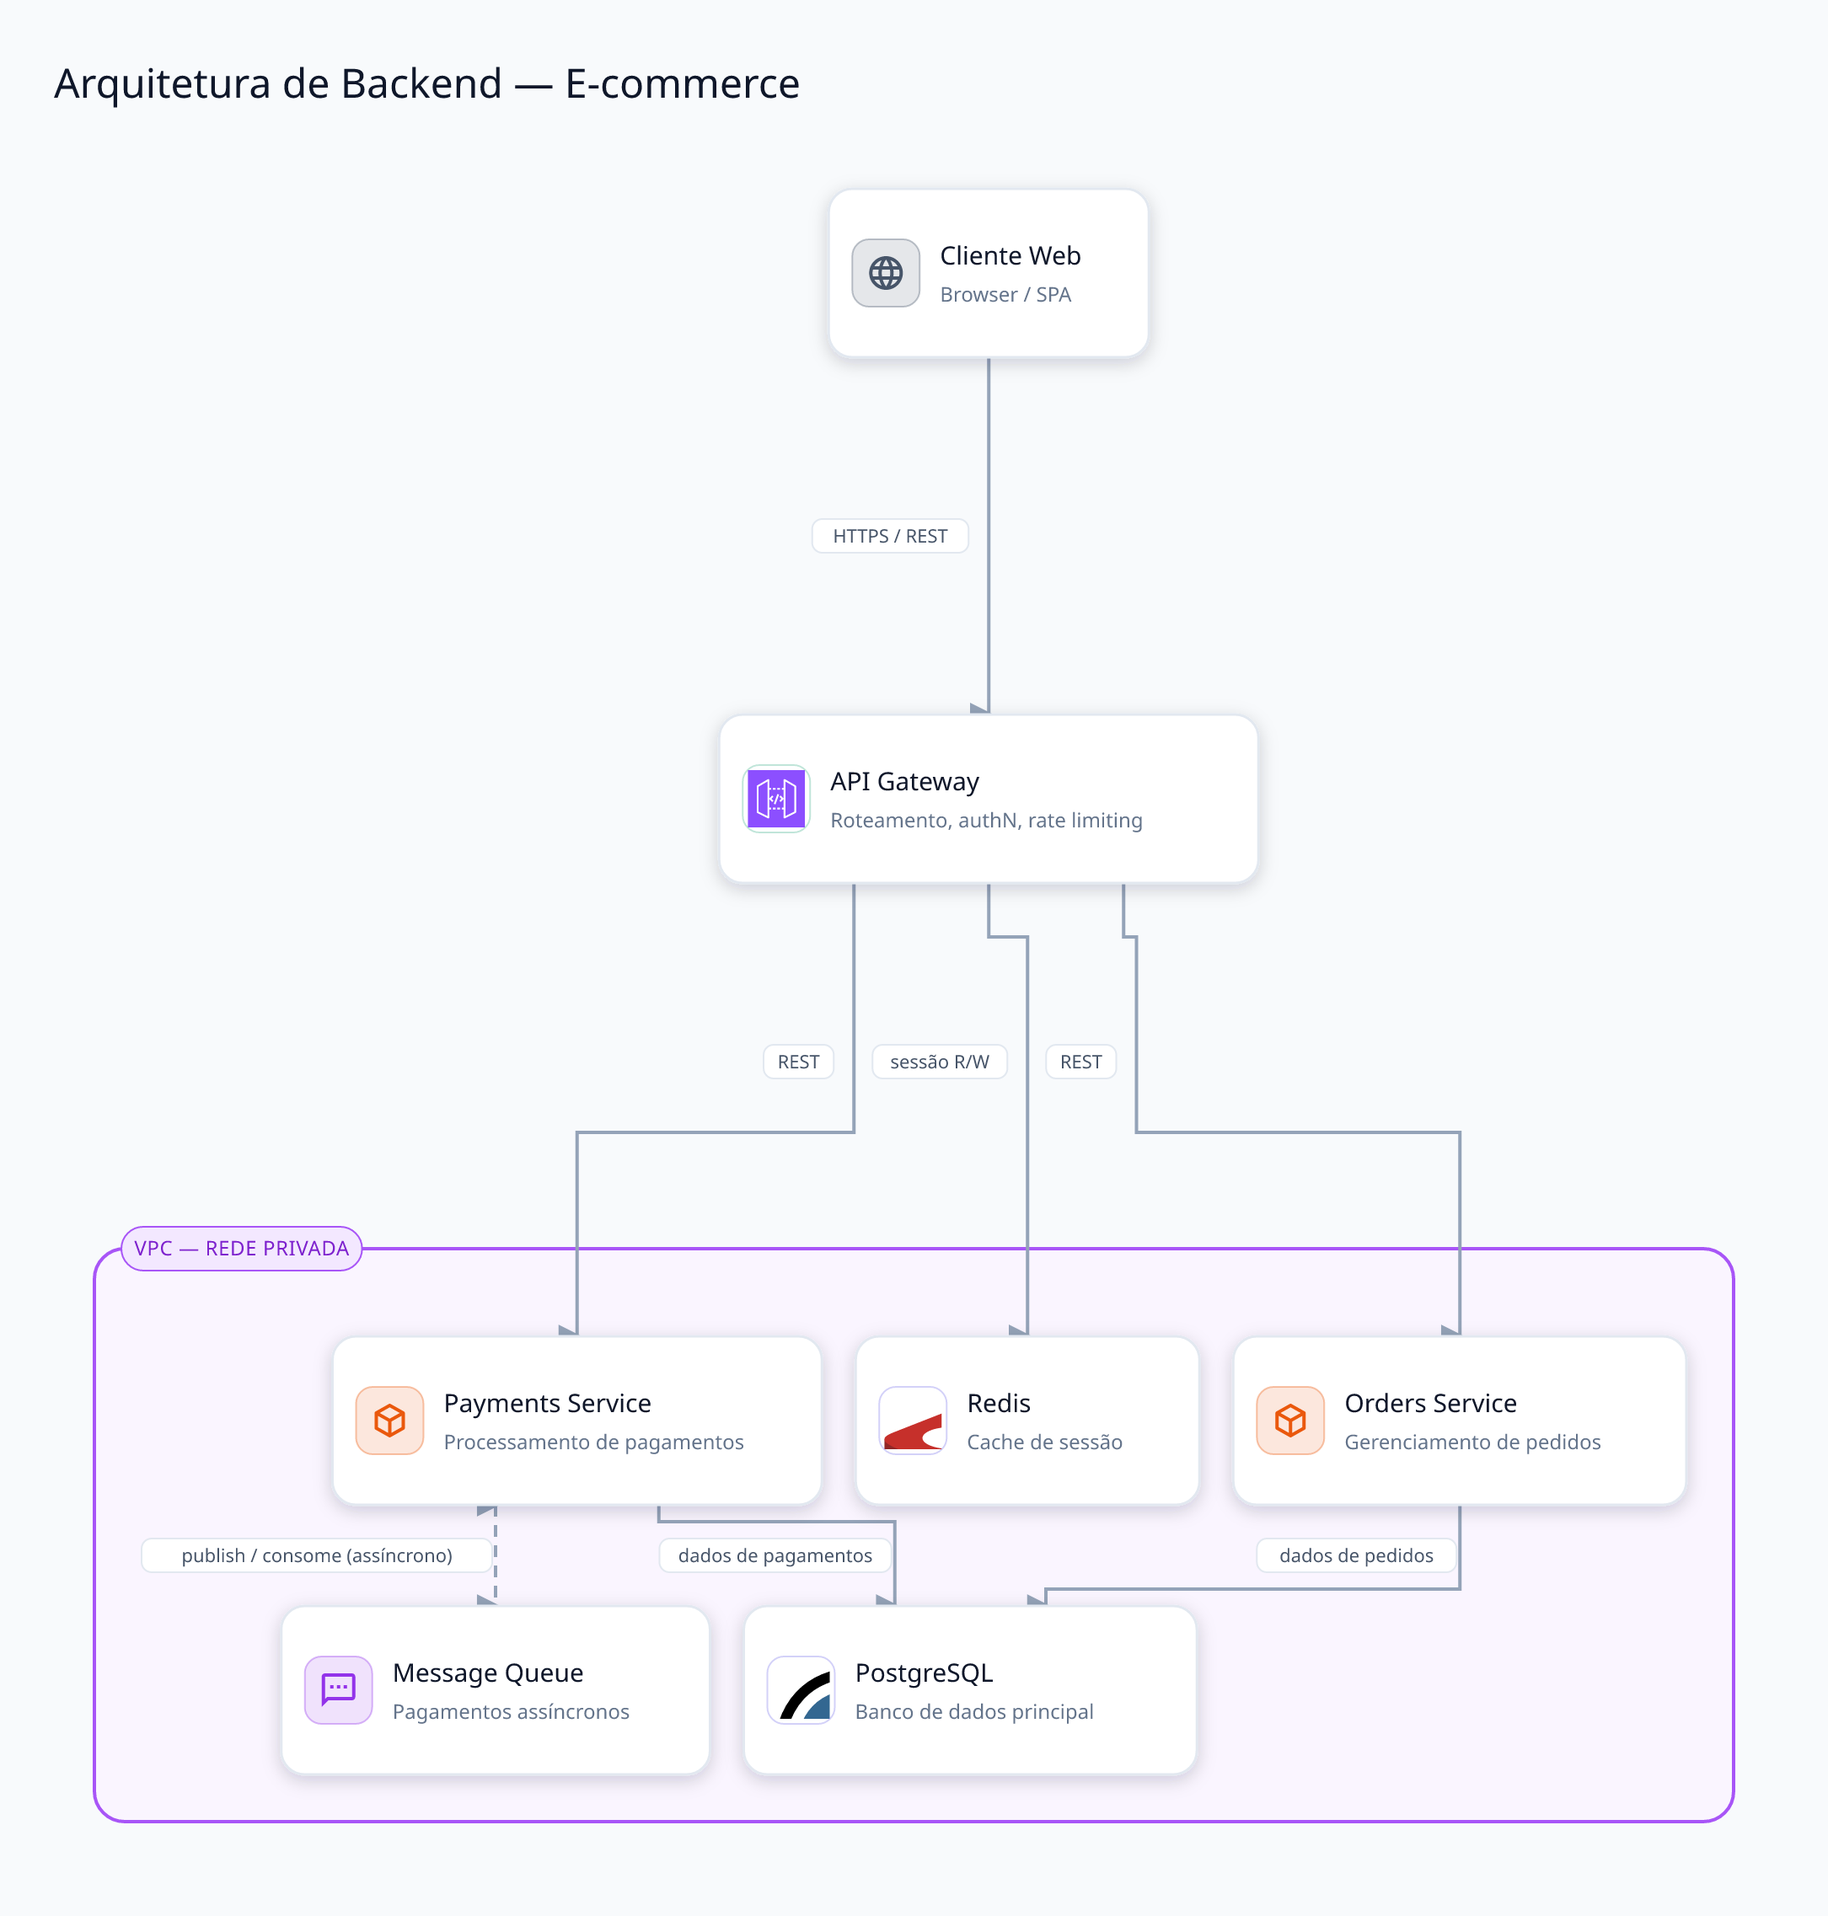
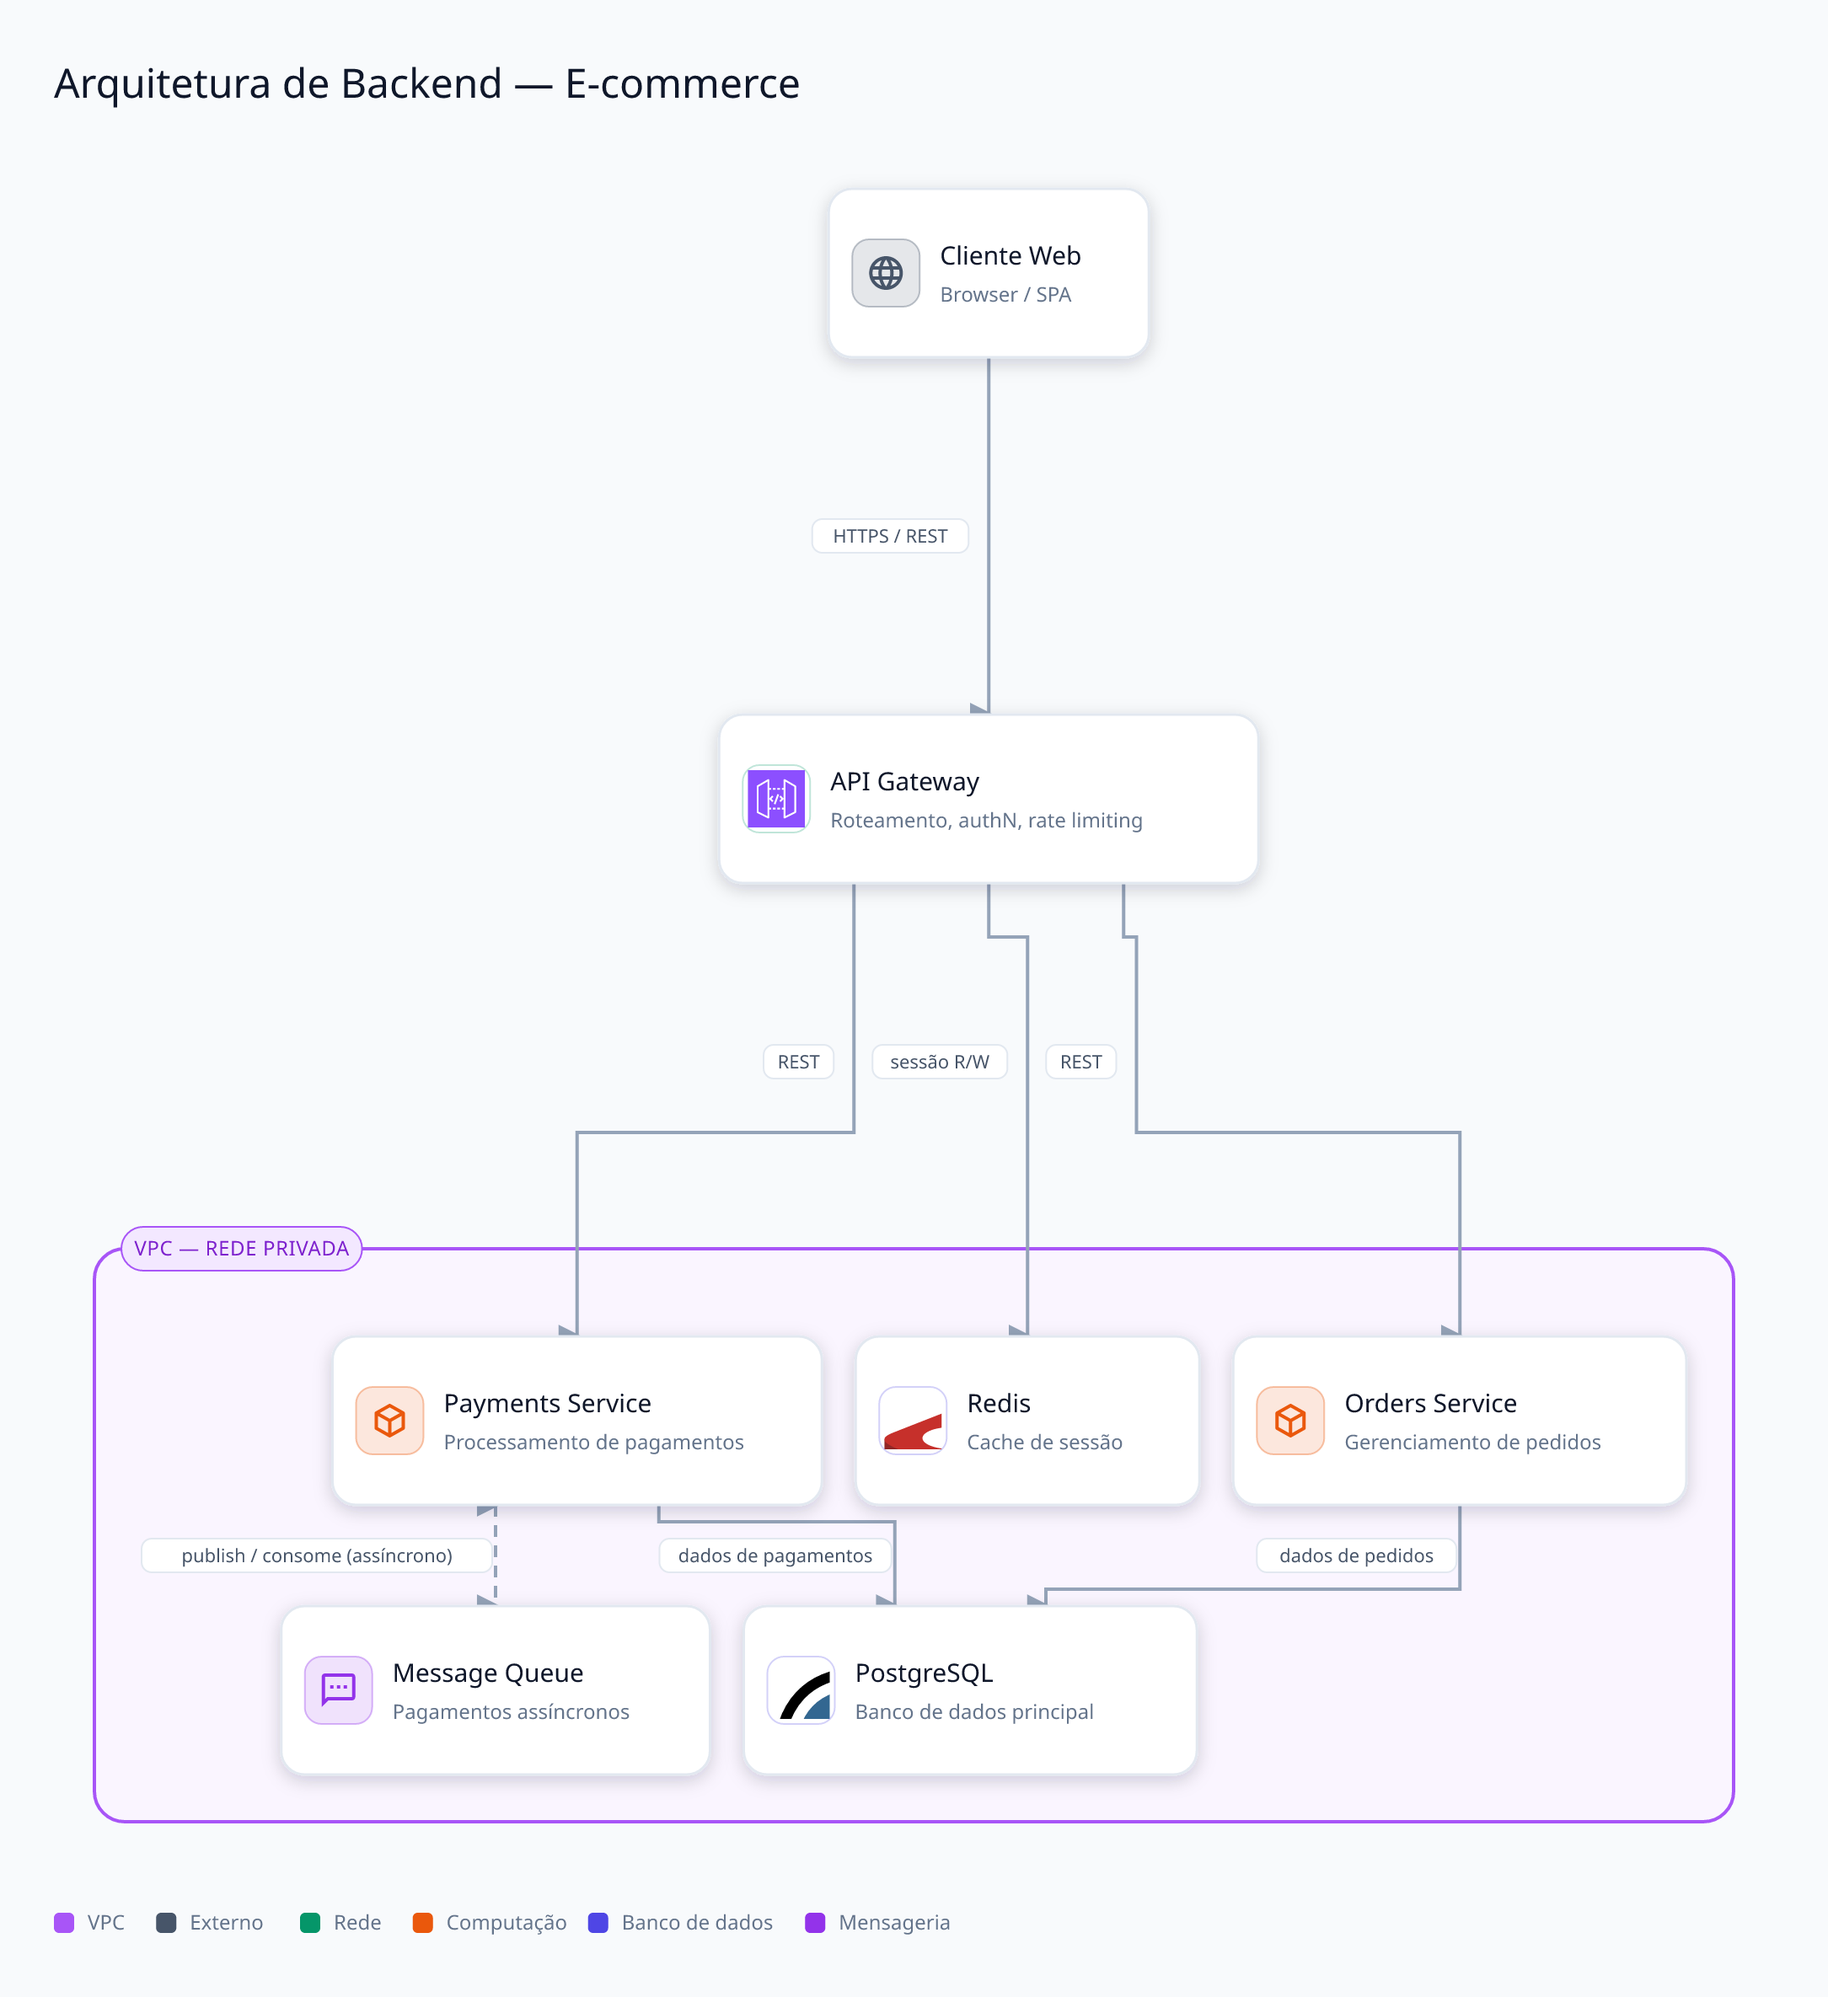
Add automatic color legend (v0.3 roadmap item)
render/legend.ts: shows a legend below the diagram explaining category and
group-style colors, but only when there's enough color variety to be worth
explaining (2+ distinct group styles, or 3+ distinct node categories) —
below that threshold it would just add visual noise. One entry per style/
category in first-appearance order, deduplicated; wraps to a new row when
it doesn't fit the canvas width. Canvas height grows to fit it.

Wired into render/compose.ts, documented in spec-guide.md so the AI knows
not to hand-draw its own legend as a node. All 6 existing examples
re-rendered and visually checked in both themes — turns out most real
diagrams have enough variety to trigger it, which is a good sign the
threshold is calibrated reasonably.

diff --git a/src/render/legend.ts b/src/render/legend.ts
@@ -1,0 +1,97 @@
+import type { DiagramSpec } from "../spec/schema.js";
+import type { IconCategory } from "../icons/catalog.js";
+import type { GroupStyleVariant, Theme } from "./theme.js";
+import { escapeXml } from "./svg-utils.js";
+
+const CATEGORY_LABELS: Record<IconCategory, string> = {
+  compute: "Computação",
+  storage: "Armazenamento",
+  database: "Banco de dados",
+  network: "Rede",
+  security: "Segurança",
+  messaging: "Mensageria",
+  external: "Externo",
+  generic: "Genérico",
+};
+
+const GROUP_STYLE_LABELS: Record<GroupStyleVariant, string> = {
+  vpc: "VPC",
+  subnet: "Subnet",
+  az: "Zona de disponibilidade",
+  boundary: "Agrupamento lógico",
+  generic: "Group",
+};
+
+export interface LegendEntry {
+  color: string;
+  label: string;
+}
+
+/**
+ * A legenda só aparece quando o diagrama realmente tem variedade de cores pra
+ * explicar — poucos elementos não precisam de legenda, e mostrar uma sempre
+ * só adicionaria ruído visual.
+ */
+export function shouldShowLegend(spec: DiagramSpec): boolean {
+  const styles = new Set(spec.groups.map((g) => g.style));
+  const categories = new Set(spec.nodes.map((n) => n.category));
+  return styles.size >= 2 || categories.size >= 3;
+}
+
+/** entradas na ordem em que os styles/categories aparecem pela primeira vez na spec, sem duplicatas */
+export function computeLegendEntries(spec: DiagramSpec, theme: Theme): LegendEntry[] {
+  const entries: LegendEntry[] = [];
+
+  const seenStyles = new Set<GroupStyleVariant>();
+  for (const group of spec.groups) {
+    if (seenStyles.has(group.style)) continue;
+    seenStyles.add(group.style);
+    entries.push({ color: theme.groupStyles[group.style].stroke, label: GROUP_STYLE_LABELS[group.style] });
+  }
+
+  const seenCategories = new Set<IconCategory>();
+  for (const node of spec.nodes) {
+    if (seenCategories.has(node.category)) continue;
+    seenCategories.add(node.category);
+    entries.push({ color: theme.categoryColors[node.category], label: CATEGORY_LABELS[node.category] });
+  }
+
+  return entries;
+}
+
+const SWATCH_SIZE = 12;
+const ENTRY_GAP = 22;
+const ROW_HEIGHT = 24;
+const LABEL_CHAR_WIDTH = 6.2;
+
+export interface RenderedLegend {
+  svg: string;
+  height: number;
+}
+
+/** desenha a legenda com origem (0,0) — quem chama posiciona via <g transform="translate(x,y)"> */
+export function renderLegend(entries: LegendEntry[], maxWidth: number, theme: Theme): RenderedLegend {
+  if (entries.length === 0) return { svg: "", height: 0 };
+
+  let x = 0;
+  let y = 0;
+  const parts: string[] = [];
+
+  for (const entry of entries) {
+    const textWidth = entry.label.length * LABEL_CHAR_WIDTH;
+    const entryWidth = SWATCH_SIZE + 8 + textWidth;
+    if (x > 0 && x + entryWidth > maxWidth) {
+      x = 0;
+      y += ROW_HEIGHT;
+    }
+    const swatchY = y + (ROW_HEIGHT - SWATCH_SIZE) / 2;
+    parts.push(
+      `<rect x="${x}" y="${swatchY}" width="${SWATCH_SIZE}" height="${SWATCH_SIZE}" rx="3" fill="${entry.color}"/>`,
+      `<text x="${x + SWATCH_SIZE + 8}" y="${y + ROW_HEIGHT / 2 + 4}" font-family='${theme.fontFamily}' font-size="12" fill="${theme.sublabelColor}">${escapeXml(entry.label)}</text>`,
+    );
+    x += entryWidth + ENTRY_GAP;
+  }
+
+  const height = y + ROW_HEIGHT;
+  return { svg: `<g>${parts.join("\n")}</g>`, height };
+}

diff --git a/tests/legend.test.ts b/tests/legend.test.ts
@@ -1,0 +1,90 @@
+import { describe, test } from "node:test";
+import assert from "node:assert/strict";
+import { validateSpec } from "../src/spec/index.js";
+import { getTheme } from "../src/render/theme.js";
+import { shouldShowLegend, computeLegendEntries, renderLegend } from "../src/render/legend.js";
+
+function specOrThrow(raw: unknown) {
+  const result = validateSpec(raw);
+  assert.equal(result.ok, true, result.ok ? undefined : JSON.stringify(result.errors));
+  if (!result.ok) throw new Error("unreachable");
+  return result.spec;
+}
+
+const theme = getTheme("clean-light");
+
+describe("legend", () => {
+  test("não mostra legenda quando não há variedade de cor suficiente", () => {
+    const spec = specOrThrow({
+      version: "1",
+      nodes: [
+        { id: "a", label: "A", category: "compute" },
+        { id: "b", label: "B", category: "compute" },
+      ],
+    });
+    assert.equal(shouldShowLegend(spec), false);
+  });
+
+  test("mostra legenda com 3+ categorias distintas mesmo sem groups", () => {
+    const spec = specOrThrow({
+      version: "1",
+      nodes: [
+        { id: "a", label: "A", category: "compute" },
+        { id: "b", label: "B", category: "database" },
+        { id: "c", label: "C", category: "network" },
+      ],
+    });
+    assert.equal(shouldShowLegend(spec), true);
+  });
+
+  test("mostra legenda com 2+ estilos de group distintos mesmo com poucas categorias", () => {
+    const spec = specOrThrow({
+      version: "1",
+      nodes: [
+        { id: "a", label: "A", group: "g1" },
+        { id: "b", label: "B", group: "g2" },
+      ],
+      groups: [
+        { id: "g1", label: "G1", style: "vpc" },
+        { id: "g2", label: "G2", style: "subnet" },
+      ],
+    });
+    assert.equal(shouldShowLegend(spec), true);
+  });
+
+  test("computeLegendEntries deduplica e preserva a ordem de primeira aparição (groups antes de categories)", () => {
+    const spec = specOrThrow({
+      version: "1",
+      nodes: [
+        { id: "a", label: "A", category: "compute", group: "g1" },
+        { id: "b", label: "B", category: "compute" },
+        { id: "c", label: "C", category: "database" },
+      ],
+      groups: [{ id: "g1", label: "G1", style: "vpc" }],
+    });
+    const entries = computeLegendEntries(spec, theme);
+    assert.deepEqual(
+      entries.map((e) => e.label),
+      ["VPC", "Computação", "Banco de dados"],
+    );
+    assert.equal(entries[0].color, theme.groupStyles.vpc.stroke);
+    assert.equal(entries[1].color, theme.categoryColors.compute);
+  });
+
+  test("renderLegend quebra linha quando excede a largura máxima", () => {
+    const entries = [
+      { color: "#111", label: "Categoria Bem Comprida Um" },
+      { color: "#222", label: "Categoria Bem Comprida Dois" },
+      { color: "#333", label: "Categoria Bem Comprida Três" },
+    ];
+    const wide = renderLegend(entries, 2000, theme);
+    const narrow = renderLegend(entries, 150, theme);
+    assert.ok(wide.height < narrow.height, "com mais largura disponível deveria caber em menos linhas (altura menor)");
+  });
+
+  test("renderLegend com lista vazia não desenha nada", () => {
+    const result = renderLegend([], 1000, theme);
+    assert.equal(result.svg, "");
+    assert.equal(result.height, 0);
+  });
+});

diff --git a/src/render/compose.ts b/src/render/compose.ts
@@ -5,6 +5,7 @@ import { getTheme } from "./theme.js";
 import { renderNode } from "./node-card.js";
 import { renderGroupBox } from "./group-box.js";
 import { renderEdge, renderArrowMarkerDefs } from "./edges.js";
+import { shouldShowLegend, computeLegendEntries, renderLegend } from "./legend.js";
 import { escapeXml } from "./svg-utils.js";
 
 export interface ComposeResult {
@@ -56,10 +57,17 @@ export async function composeDiagram(spec: DiagramSpec, layout: LayoutResult): P
   const offsetX = CANVAS_MARGIN;
   const offsetY = CANVAS_MARGIN + (spec.title ? TITLE_HEIGHT : 0);
   const width = layout.width + CANVAS_MARGIN * 2;
-  const height = layout.height + offsetY + CANVAS_MARGIN;
+
+  const legend = shouldShowLegend(spec) ? renderLegend(computeLegendEntries(spec, theme), layout.width, theme) : null;
+  const legendGap = legend && legend.height > 0 ? 24 : 0;
+  const height = layout.height + offsetY + legendGap + (legend?.height ?? 0) + CANVAS_MARGIN;
 
   const title = spec.title
     ? `<text x="${CANVAS_MARGIN}" y="${CANVAS_MARGIN + 26}" font-family='${theme.fontFamily}' font-size="24" font-weight="700" fill="${theme.titleColor}">${escapeXml(spec.title)}</text>`
+    : "";
+
+  const legendBlock = legend?.svg
+    ? `<g transform="translate(${offsetX}, ${offsetY + layout.height + legendGap})">${legend.svg}</g>`
     : "";
 
   const svg = `<svg xmlns="http://www.w3.org/2000/svg" xmlns:xlink="http://www.w3.org/1999/xlink" width="${width}" height="${height}" viewBox="0 0 ${width} ${height}">
@@ -76,6 +84,7 @@ ${groupParts.join("\n")}
 ${edgeParts.join("\n")}
 ${nodeParts.join("\n")}
 </g>
+${legendBlock}
 </svg>`;
 
   return { svg, warnings };

diff --git a/ROADMAP.md b/ROADMAP.md
@@ -16,7 +16,7 @@ Base para poder mexer no resto com segurança.
 ## v0.3 — Qualidade visual
 
 - [x] **Mais shapes de node** — o schema já reservava `shape: "database" | "actor"` desde o v0.1, mas o renderer nunca implementava a diferenciação visual (todo node virava o mesmo card). Agora `render/node-card.ts` despacha por shape de verdade: `database` (cilindro, com tampas elípticas), `actor` (sem card — ícone circular + label embaixo, para pessoas/sistemas externos) e `cloud` (silhueta de nuvem reaproveitando o path do mdi "cloud", novo no schema). `layout/geometry.ts` tem sizing próprio por shape. Exemplo dedicado em `examples/node-shapes.yaml`.
-- [ ] **Legenda automática** — gerar um bloco de legenda explicando as cores por `category` e por `style` de group quando o diagrama tiver muitos elementos distintos.
+- [x] **Legenda automática** — `render/legend.ts`. Aparece só quando há variedade de cor suficiente pra valer a pena explicar (2+ estilos de group distintos, ou 3+ categorias de node distintas — abaixo disso só adicionaria ruído). Uma entrada por style de group e por category, na ordem de primeira aparição na spec, sem duplicatas; quebra de linha automática se não couber na largura do canvas. Posicionada abaixo do diagrama, canvas cresce pra acomodar. Validado nos 6 exemplos existentes — todos passaram a mostrar legenda (evidência de que a maioria dos diagramas reais tem variedade suficiente pra se beneficiar dela).
 - [ ] **Expandir o catálogo de ícones** — o catálogo curado tem ~94 entradas hoje; crescer cobertura de serviços AWS/Azure/GCP comuns que ainda faltam.
 - [ ] **Comando de busca de ícone no CLI** — `arch-diagram icons <termo>` para a IA (ou humano) encontrar a chave certa no terminal em vez de abrir `icon-catalog.md` inteiro. Fica natural de implementar junto da expansão do catálogo.
 

diff --git a/architecture-diagrams/reference/spec-guide.md b/architecture-diagrams/reference/spec-guide.md
@@ -14,6 +14,8 @@ groups: [ ... ]                # opcional
 edges: [ ... ]                # opcional
 ```
 
+Uma legenda explicando as cores de `category` e de `style` de group aparece automaticamente embaixo do diagrama quando há variedade suficiente pra valer a pena (2+ styles de group distintos ou 3+ categories distintas). Não precisa configurar nada — e não desenhe sua própria legenda manualmente como um node, o renderer já cuida disso.
+
 ## `nodes`
 
 Cada node é uma caixa/card no diagrama.
